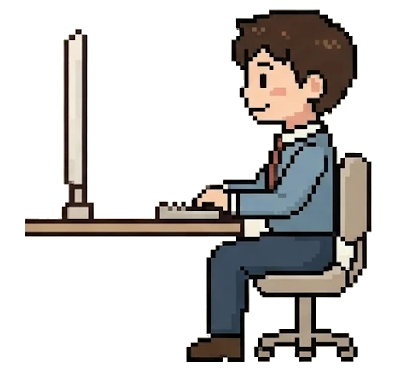
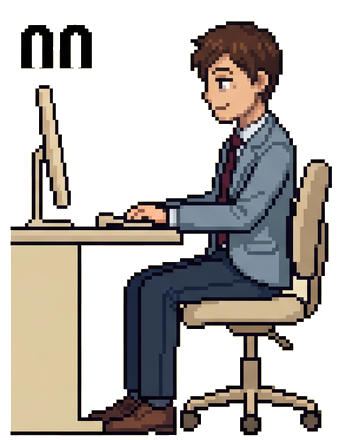
Add male images, 30 min default interval, auto release workflow

diff --git a/src/posture_alert/main.py b/src/posture_alert/main.py
@@ -5,7 +5,7 @@
     POSTURE_DEBUG=1 uv run posture-alert     # 1분 = 1초 (20초마다 다음 단계 ...)
     POSTURE_EVERY_SECONDS=3 uv run posture-alert   # 테스트: 3초마다 다음 단계
     uv run posture-alert --demo posture      # 바로 카드 띄우기 (eye/posture/stretch/stand/receipt 또는 단계 번호 1~8)
-    POSTURE_EVERY=20 uv run posture-alert    # 단계 하나당 간격(분), 기본 20
+    POSTURE_EVERY=20 uv run posture-alert    # 단계 하나당 간격(분), 기본 30
     uv run posture-alert --shot out.png --demo posture   # 카드 스크린샷 저장 후 종료
 """
 import os
@@ -42,7 +42,7 @@ def data_path() -> Path:
 
 IGNORED = {"skip", "snooze", "timeout"}
 MAX_GHOSTS = 6
-CYCLE_EVERY_MINUTES = float(os.environ.get("POSTURE_EVERY", "20"))  # 단계 하나당 간격(분)
+CYCLE_EVERY_MINUTES = float(os.environ.get("POSTURE_EVERY", "30"))  # 단계 하나당 간격(분)
 # 테스트용: POSTURE_EVERY_SECONDS=3 이면 3초마다 다음 단계 (타이핑 중 대기도 끔)
 TEST_EVERY_SECONDS = float(os.environ.get("POSTURE_EVERY_SECONDS", "0"))
 # 종료할 때 DB 기록을 모두 지움 (POSTURE_KEEP_DATA=1 이면 남김)

diff --git a/README.md b/README.md
@@ -79,7 +79,7 @@ src/posture_alert/
 
 ## 단계 사이클
 
-알림이 뜰 때마다 단계 **1 → 2 → … → 8 → 1** 순서로 돕니다 (기본 20분마다 한 단계, `POSTURE_EVERY=분`으로 조절).
+알림이 뜰 때마다 단계 **1 → 2 → … → 8 → 1** 순서로 돕니다 (기본 30분마다 한 단계, `POSTURE_EVERY=분`으로 조절).
 연속으로 90분 앉아 있으면 순서와 상관없이 8단계(일어나기)가 끼어듭니다. 이때 사이클 위치는 그대로예요.
 
 | 단계 | enum | 자세 |
